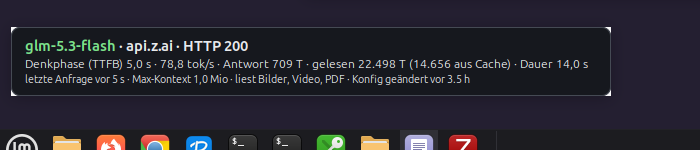
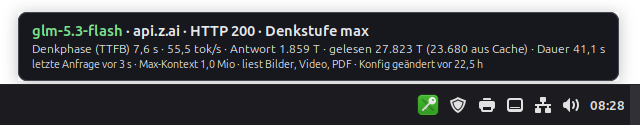
Show the reasoning effort actually sent (gen_ai.request.reasoning.level)

diff --git a/qwen-llm-monitor.py b/qwen-llm-monitor.py
@@ -1,12 +1,13 @@
 #!/usr/bin/env python3
-"""LLM-Monitor für Qwen Code (v3, 17.10.2026) — GTK3-Desktop-Badge.
+"""LLM-Monitor für Qwen Code (v4, 22.10.2026) — GTK3-Desktop-Badge.
 
 Zeigt in drei Zeilen, was die laufenden Qwen-Code-Sessions wirklich tun:
 
 1. Zeile 1 (aus dem OTel-Datenstrom): Modell, das tatsächlich geantwortet hat
    (gen_ai.response.model) · Anbieter-Host aus der echten Request-URL (url.full)
-   · HTTP-Status. Vor der ersten Anfrage: die konfigurierte Route aus der
-   settings.json, klar als „konfiguriert" markiert.
+   · HTTP-Status · Denkstufe, die tatsächlich gesendet wurde
+   (gen_ai.request.reasoning.level). Vor der ersten Anfrage: die konfigurierte
+   Route aus der settings.json, klar als „konfiguriert" markiert.
    Läuft die Route über einen lokalen LLM-Proxy (Loopback-Host), sagt die
    Request-URL nichts über die echte Quelle — dann löst der Monitor sie über
    die /status-API des Proxys auf: Z.ai direkt, OpenRouter mit dem tatsächlich
@@ -101,7 +102,7 @@ L10N = {
         'awaiting': 'warte auf erste Anfrage', 'configured': 'konfiguriert',
         'unknown': 'Route unbekannt', 'quit': 'Beenden',
         'zai_emergency': 'Z.ai (Notfall)', 'local_proxy': 'lokaler Proxy',
-        'err_generic': 'Fehler',
+        'err_generic': 'Fehler', 'effort': 'Denkstufe %s',
         'age_s': 'vor %d s', 'age_min': 'vor %d min', 'age_h': 'vor %.1f h',
     },
     'en': {
@@ -116,7 +117,7 @@ L10N = {
         'awaiting': 'waiting for first request', 'configured': 'configured',
         'unknown': 'unknown route', 'quit': 'Quit',
         'zai_emergency': 'Z.ai (emergency)', 'local_proxy': 'local proxy',
-        'err_generic': 'error',
+        'err_generic': 'error', 'effort': 'effort %s',
         'age_s': '%d s ago', 'age_min': '%d min ago', 'age_h': '%.1f h ago',
     },
     'zh': {
@@ -131,7 +132,7 @@ L10N = {
         'awaiting': '等待首次请求', 'configured': '已配置',
         'unknown': '未知路由', 'quit': '退出',
         'zai_emergency': 'Z.ai（应急）', 'local_proxy': '本地代理',
-        'err_generic': '错误',
+        'err_generic': '错误', 'effort': '推理强度 %s',
         'age_s': '%d 秒前', 'age_min': '%d 分钟前', 'age_h': '%.1f 小时前',
     },
 }
@@ -476,6 +477,7 @@ class OtlpState:
         rec = {
             'at': time.time(),
             'model': a.get('gen_ai.response.model') or a.get('gen_ai.request.model'),
+            'effort': a.get('gen_ai.request.reasoning.level'),
             'ttfb_ms': ttfb_ms,
             'tps': tps,
             'in_tok': a.get('gen_ai.usage.input_tokens'),
@@ -490,8 +492,8 @@ class OtlpState:
         with self.lock:
             self.last = rec
             self.received += 1
-        sys.stderr.write('SPAN model=%s ttfb=%s tps=%s out=%s in=%s err=%s\n'
-                         % (rec['model'], rec['ttfb_ms'], rec['tps'],
+        sys.stderr.write('SPAN model=%s effort=%s ttfb=%s tps=%s out=%s in=%s err=%s\n'
+                         % (rec['model'], rec['effort'], rec['ttfb_ms'], rec['tps'],
                             rec['out_tok'], rec['in_tok'], rec['error']))
         sys.stderr.flush()
 
@@ -757,7 +759,7 @@ class App:
             if host in LOOPBACK_HOSTS:
                 # Loopback = Anfrage lief über den lokalen LLM-Proxy; die echte
                 # Quelle (Z.ai direkt / OpenRouter + Provider) liefert /status.
-                line1 = self.render_proxy_line1(status)
+                line1 = self.render_proxy_line1(status, last.get('effort'))
             else:
                 if 'z.ai' in url:
                     color = COLOR_ZAI
@@ -773,6 +775,8 @@ class App:
                     parts.append(self.esc(host))
                 if status is not None:
                     parts.append('HTTP %s' % self.esc(status))
+                if last.get('effort'):
+                    parts.append(T('effort') % self.esc(last['effort']))
                 line1 = ' · '.join(parts)
         elif r:
             cfg = ' · '.join(str(x) for x in (r['label'], r.get('model'),
@@ -799,7 +803,7 @@ class App:
             ctx.append(T('config_changed') % fmt_age(int(self.settings_age)))
         self.set_markup(self.lbl_ctx, ' · '.join(ctx) or ' ')
 
-    def render_proxy_line1(self, status):
+    def render_proxy_line1(self, status, effort=None):
         """Zeile 1 bei Loopback-Route — echte Quelle aus der Proxy-/status-API."""
         rec = ((self.proxy_snapshot() or {}).get('last')) or {}
         leg = str(rec.get('route') or '')
@@ -823,6 +827,8 @@ class App:
                  self.esc(src)]
         if status is not None:
             parts.append('HTTP %s' % self.esc(status))
+        if effort:
+            parts.append(T('effort') % self.esc(effort))
         return ' · '.join(parts)
 
     def render_telemetry(self):

diff --git a/README.md b/README.md
@@ -10,7 +10,7 @@
 
 | Line | Meaning |
 |------|---------|
-| `glm-5.3-flash · Z.ai · HTTP 200` or `glm-5.3-flash · OpenRouter · inference.net · HTTP 200` | The model that **actually answered**, the source that **really produced it** (read from the network request, not from a configuration file), and the HTTP status |
+| `glm-5.3-flash · Z.ai · HTTP 200 · effort max` or `glm-5.3-flash · OpenRouter · inference.net · HTTP 200 · effort high` | The model that **actually answered**, the source that **really produced it** (read from the network request, not from a configuration file), the HTTP status, and the reasoning effort **actually sent on the wire** (may differ from the configuration, e.g. `xhigh` vs `max`) |
 | `Thinking time (TTFB) 6.6 s · 44.1 tok/s · Reply 374 T · read 77,818 T · Duration 15.0 s` | Waiting time before the answer started ("thinking"), output speed, size of the answer, how much context the model read, total duration |
 | `last request 19 s ago · Max context 1.0M · reads images, video, PDF · config changed 5.0 h ago` | Age of the last measurement, the model's context window, supported input types, and when your Qwen Code configuration was last changed |
 
@@ -34,7 +34,7 @@ This monitor fills the gap: it embeds a tiny OTLP/HTTP receiver (JSON and protob
 
 ## How it works
 
-- **Line 1–2 (real traffic):** Qwen Code sends one OpenTelemetry span per model request to the embedded receiver. The LLM span carries the model that answered (`gen_ai.response.model`) and the usage metrics; a separate HTTP span carries the real request URL (`url.full`) and the HTTP status code. The monitor shows exactly that — **what came back, not what the configuration claims**.
+- **Line 1–2 (real traffic):** Qwen Code sends one OpenTelemetry span per model request to the embedded receiver. The LLM span carries the model that answered (`gen_ai.response.model`), the reasoning effort actually sent (`gen_ai.request.reasoning.level`), and the usage metrics; a separate HTTP span carries the real request URL (`url.full`) and the HTTP status code. The monitor shows exactly that — **what came back, not what the configuration claims**.
 - **Proxy-aware source resolution:** when the request URL points at a loopback address, the URL says nothing about the real source. The monitor then polls the local LLM proxy's status endpoint for the leg that actually served the last request — Z.ai directly or OpenRouter, including the OpenRouter provider name — and shows that in line 1 instead of the raw loopback address.
 - **Line 3 (configuration):** the widget polls `~/.qwen/settings.json` and shows the model's context window and supported input types, plus the age of the last configuration change.
 - `otlpProtocol: "http"` also works with a standard OpenTelemetry collector; stock collectors accept both JSON and protobuf.
@@ -42,7 +42,7 @@ This monitor fills the gap: it embeds a tiny OTLP/HTTP receiver (JSON and protob
 ## Requirements
 
 - Linux with X11, GTK 3, and Python 3 with GObject introspection (stock packages on Linux Mint / Ubuntu / Debian)
-- [Qwen Code](https://github.com/QwenLM/qwen-code) 0.25.x
+- [Qwen Code](https://github.com/QwenLM/qwen-code) — 0.26.0 or newer for the reasoning-effort display (telemetry added in [0.26.0](https://github.com/QwenLM/qwen-code/pull/14718); older versions work, but the effort stays hidden)
 
 ## Installation
 
@@ -92,6 +92,8 @@ The interface follows your desktop language: **German**, **English** (default), 
 - Linux/X11 with GTK 3 only.
 - Sessions must be started *after* enabling telemetry — already-running sessions do not send spans.
 - Throughput values above 300 tok/s are treated as reporting glitches of the exporter and hidden.
+- The effort value comes from Qwen Code telemetry (`gen_ai.request.reasoning.level`), which mirrors the flat `reasoning_effort` request property only — nested `reasoning.effort` objects are not mapped upstream. Routes that send effort nested (local LLM proxy, OpenRouter) therefore show no effort; Z.ai-direct routes do.
+- The effort reflects the *first* request of a session — a later `/effort` change is picked up only in a new session (upstream first-request snapshot).
 
 ## Status and maintenance
 
